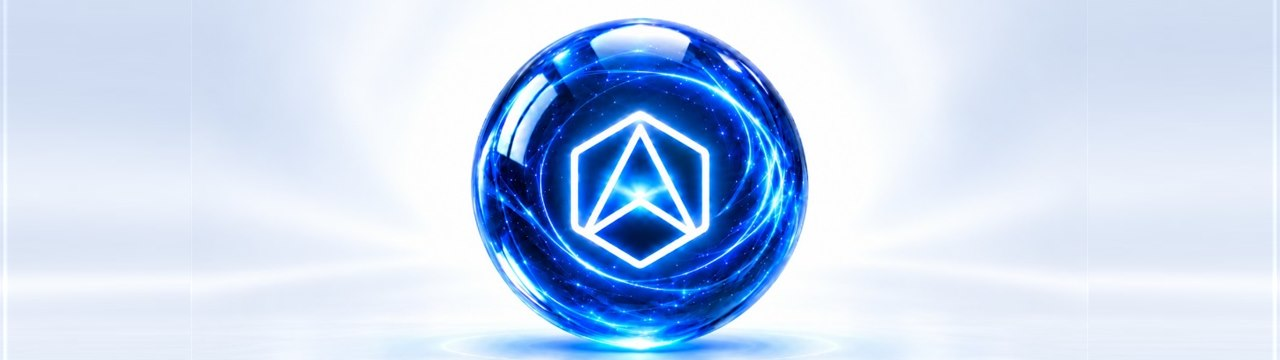
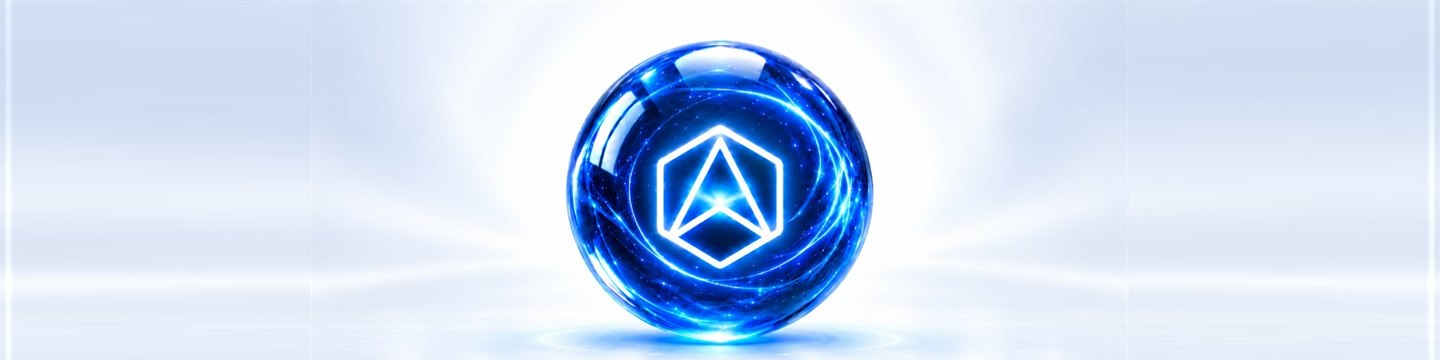
Digital Twin tile shows the whole orb and its glow

diff --git a/public/portfolio/projects.html b/public/portfolio/projects.html
@@ -46,7 +46,7 @@ var SLUGS=[
   ['product-instructions','Product Instruction QR'],
   ['personal-axon','Personal Axon'],
   ['grocery-shopping','Grocery Shopping Teammate'],
-  ['added','/portfolio/digital-twin/','Axon Digital Twin','A private twin of you that makes the call, or talks to their AI, and reports back.','/portfolio/digital-twin/tile.jpg'],
+  ['added','/portfolio/digital-twin/','Axon Digital Twin','A private twin of you that makes the call, or talks to their AI, and reports back.','/portfolio/digital-twin/tile.jpg?v=2'],
   ['cover','Start a Business with AI'],
   ['dna-answers','DNA Answers'],
   ['std-sti-testing','STD / STI Testing'],
